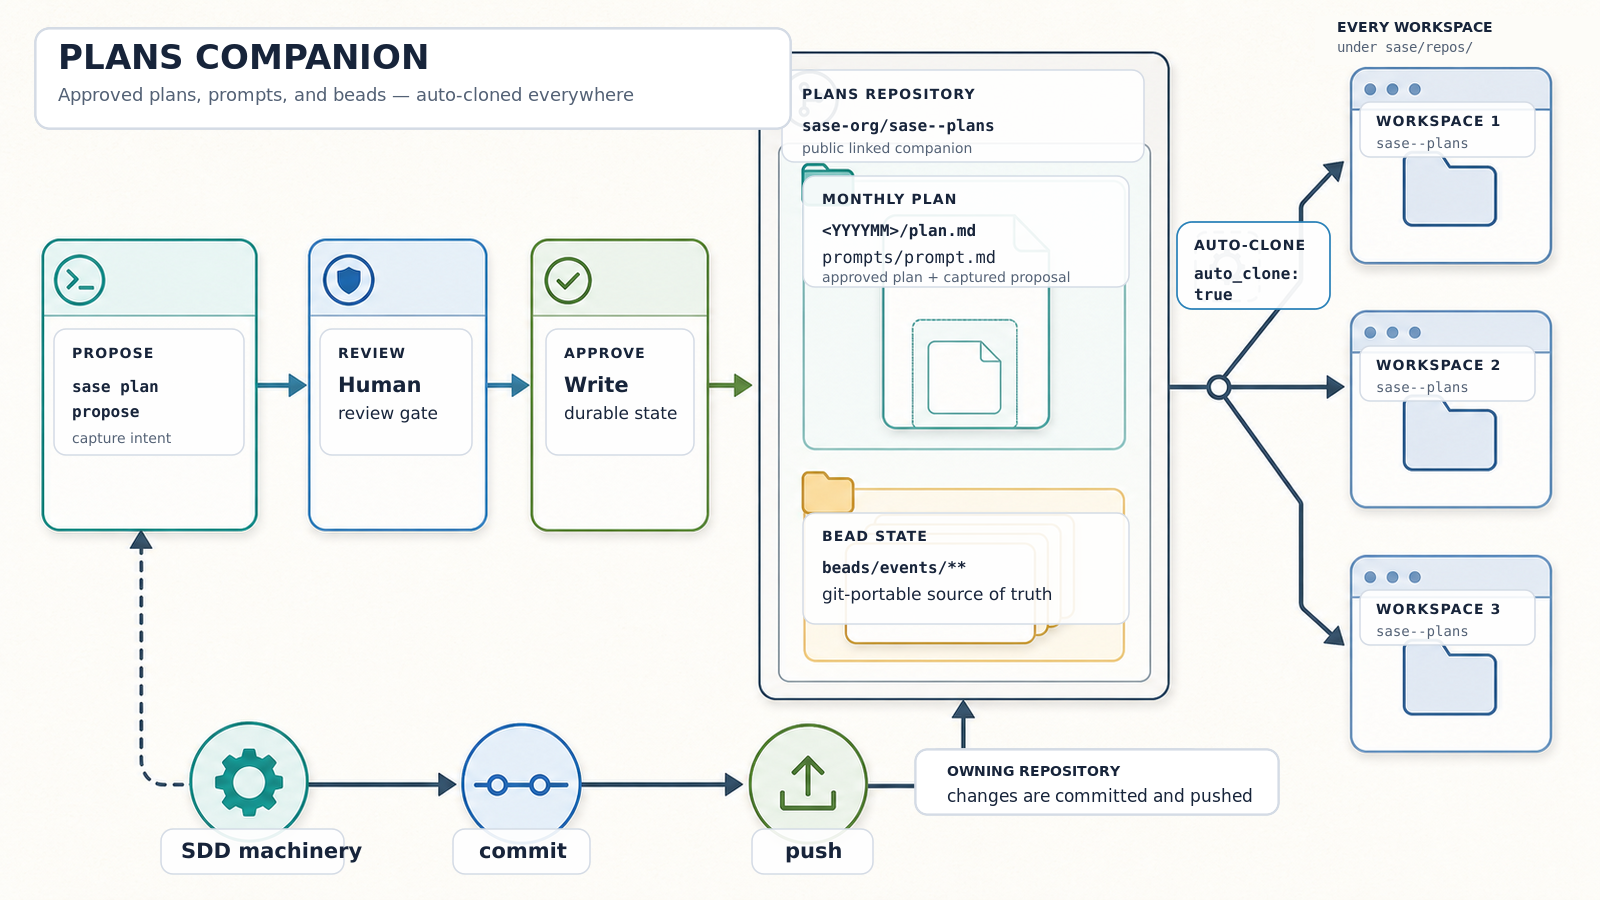
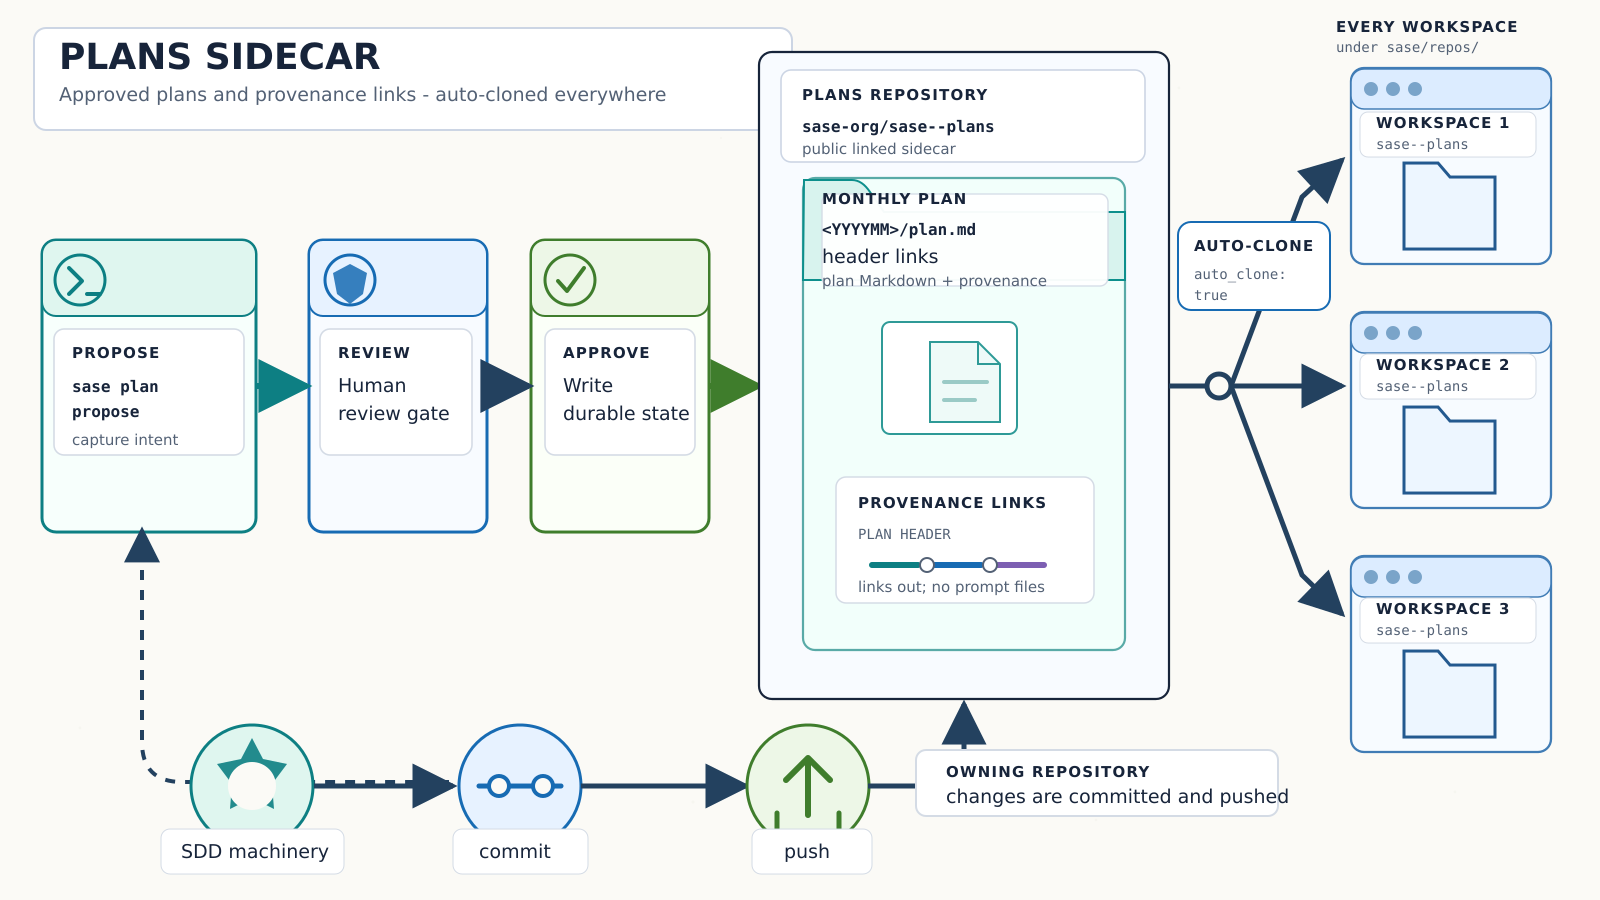
Initialize SASE plans sidecar
SASE_TYPE=init

diff --git a/README.md b/README.md
@@ -1,8 +1,9 @@
 # SASE Plans
 
 This public sidecar repository stores the durable planning state for its SASE-managed source repository. SASE
-automatically clones it into each workspace and keeps plan files and their original prompt snapshots available to humans
-and agents. Bead state lives in the separate `--beads` sidecar repository.
+automatically clones it into each workspace and keeps plan files available to humans and agents. Canonical prompt
+Markdown and prompt-linked artifacts live in the separate `--agents` sidecar repository; bead state lives in the
+separate `--beads` sidecar repository.
 
 ![Plans directory map](assets/plans-directory-map.png)
 
@@ -10,7 +11,8 @@ and agents. Bead state lives in the separate `--beads` sidecar repository.
 
 - `<YYYYMM>/*.md` stores plan files. Every plan declares a non-empty `title` and either `tier: tale` or `tier: epic` in
   YAML frontmatter.
-- `<YYYYMM>/prompts/*.md` stores the original prompts or expanded snapshots that produced that month's plans.
+- Plan `PROMPT` header links point to `prompts/<YYYYMM>/*.md` files in the project's `--agents` sidecar. Historical
+  `<YYYYMM>/prompts/*.md` files may remain readable during migration, but new committed run prompts are not stored here.
 - `assets/` stores generated explanatory media used by this README.
 
 ## Plan Header Block
@@ -20,7 +22,7 @@ provenance. YAML frontmatter, when present, begins at byte zero; the block is th
 exactly one blank line after it.
 
 ```markdown
-- **PROMPT:** [202607/prompts/example.md](prompts/example.md)
+- **PROMPT:** [prompts/202607/example.md](https://github.com/<org>/<repo>--agents/blob/main/prompts/202607/example.md)
 - **PARENT:** [202607/parent_epic.md](https://github.com/<org>/<repo>--plans/blob/main/202607/parent_epic.md)
 - **AGENTS:**
   - [user.host.sase-1a.2](https://github.com/<org>/<repo>--agents/blob/main/agents/user.host.sase-1a.2/README.md)
@@ -28,14 +30,17 @@ exactly one blank line after it.
   - [699456a](https://github.com/<org>/<repo>/commit/699456a521e25e0aaa38f4e289db38e71a6488a6) — feat: ship the thing
 ```
 
-Section order is fixed: `PROMPT`, `PARENT`, `AGENTS`, `COMMITS`. Prompt snapshots carry a single `PLAN` section instead
-(`- **PLAN:** [../202607/example.md](../example.md)`). Sub-bullets are indented two spaces and deterministically ordered
-— agents by name, commits by commit time then SHA. A section with nothing to show is omitted entirely, and long lists
-are capped with a visible `… and N more` sub-bullet rather than truncated silently.
+Section order is fixed: `PROMPT`, `PARENT`, `BEAD`, `AGENTS`, `ARTIFACTS`, `COMMITS`. Prompt archives carry a `PLAN`
+section instead (`- **PLAN:** [202607/example.md](https://github.com/<org>/<repo>--plans/blob/main/202607/example.md)`)
+and may also carry `AGENTS` and `ARTIFACTS` sections. Sub-bullets are indented two spaces and deterministically ordered
+— agents by name, artifacts by rendered prompt order, commits by commit time then SHA. A section with nothing to show is
+omitted entirely, and long lists are capped with a visible `… and N more` sub-bullet rather than truncated silently.
 
-Link policy: `PROMPT` and `PLAN` keep file-relative hrefs; `PARENT`, `AGENTS`, and `COMMITS` link to GitHub when the
-store has a resolvable hosted remote, and degrade to a file-relative href (`PARENT`) or an unlinked label (`AGENTS`,
-`COMMITS`) rather than guessing a URL. Labels stay stable across those fallbacks.
+Link policy: `PROMPT` and `PLAN` accept cross-repository hosted URLs as well as historical file-relative hrefs.
+`PARENT`, `AGENTS`, and `COMMITS` link to GitHub when the store has a resolvable hosted remote, and degrade to a
+file-relative href (`PARENT`) or an unlinked label (`AGENTS`, `COMMITS`) rather than guessing a URL. `ARTIFACTS` links
+to hosted version-control blobs or to files under the agents sidecar's `artifacts/<YYYYMM>/` archive. Labels stay stable
+across those fallbacks.
 
 `AGENTS` and `COMMITS` are a **projection of durable state, never an accumulator**: they are re-derived from commit
 footers and agent metadata on every refresh, so correcting the source removes a stale entry. An epic plan's sections
@@ -46,7 +51,8 @@ historical `parent:` frontmatter property is deprecated and migrated on refresh.
 
 - `sase plan list` and `sase plan search` inspect plans.
 - `sase repo path plans` prints this clone's root.
-- `sase plan links validate` checks prompt and plan artifact links.
+- `sase agent prompts list`, `show`, and `validate` inspect the canonical agents-sidecar prompt archive.
+- `sase plan links validate` checks plan header links, including cross-repository prompt links.
 - `sase plan links refresh` previews header-block reconciliation across every plan; add `--write` to update and commit
   changed plans, or `--plan <ref>` to scope the run to one plan.
 - `sase plan links repair` previews legacy or stale links; add `--write` for a one-time canonical-bullet migration.
